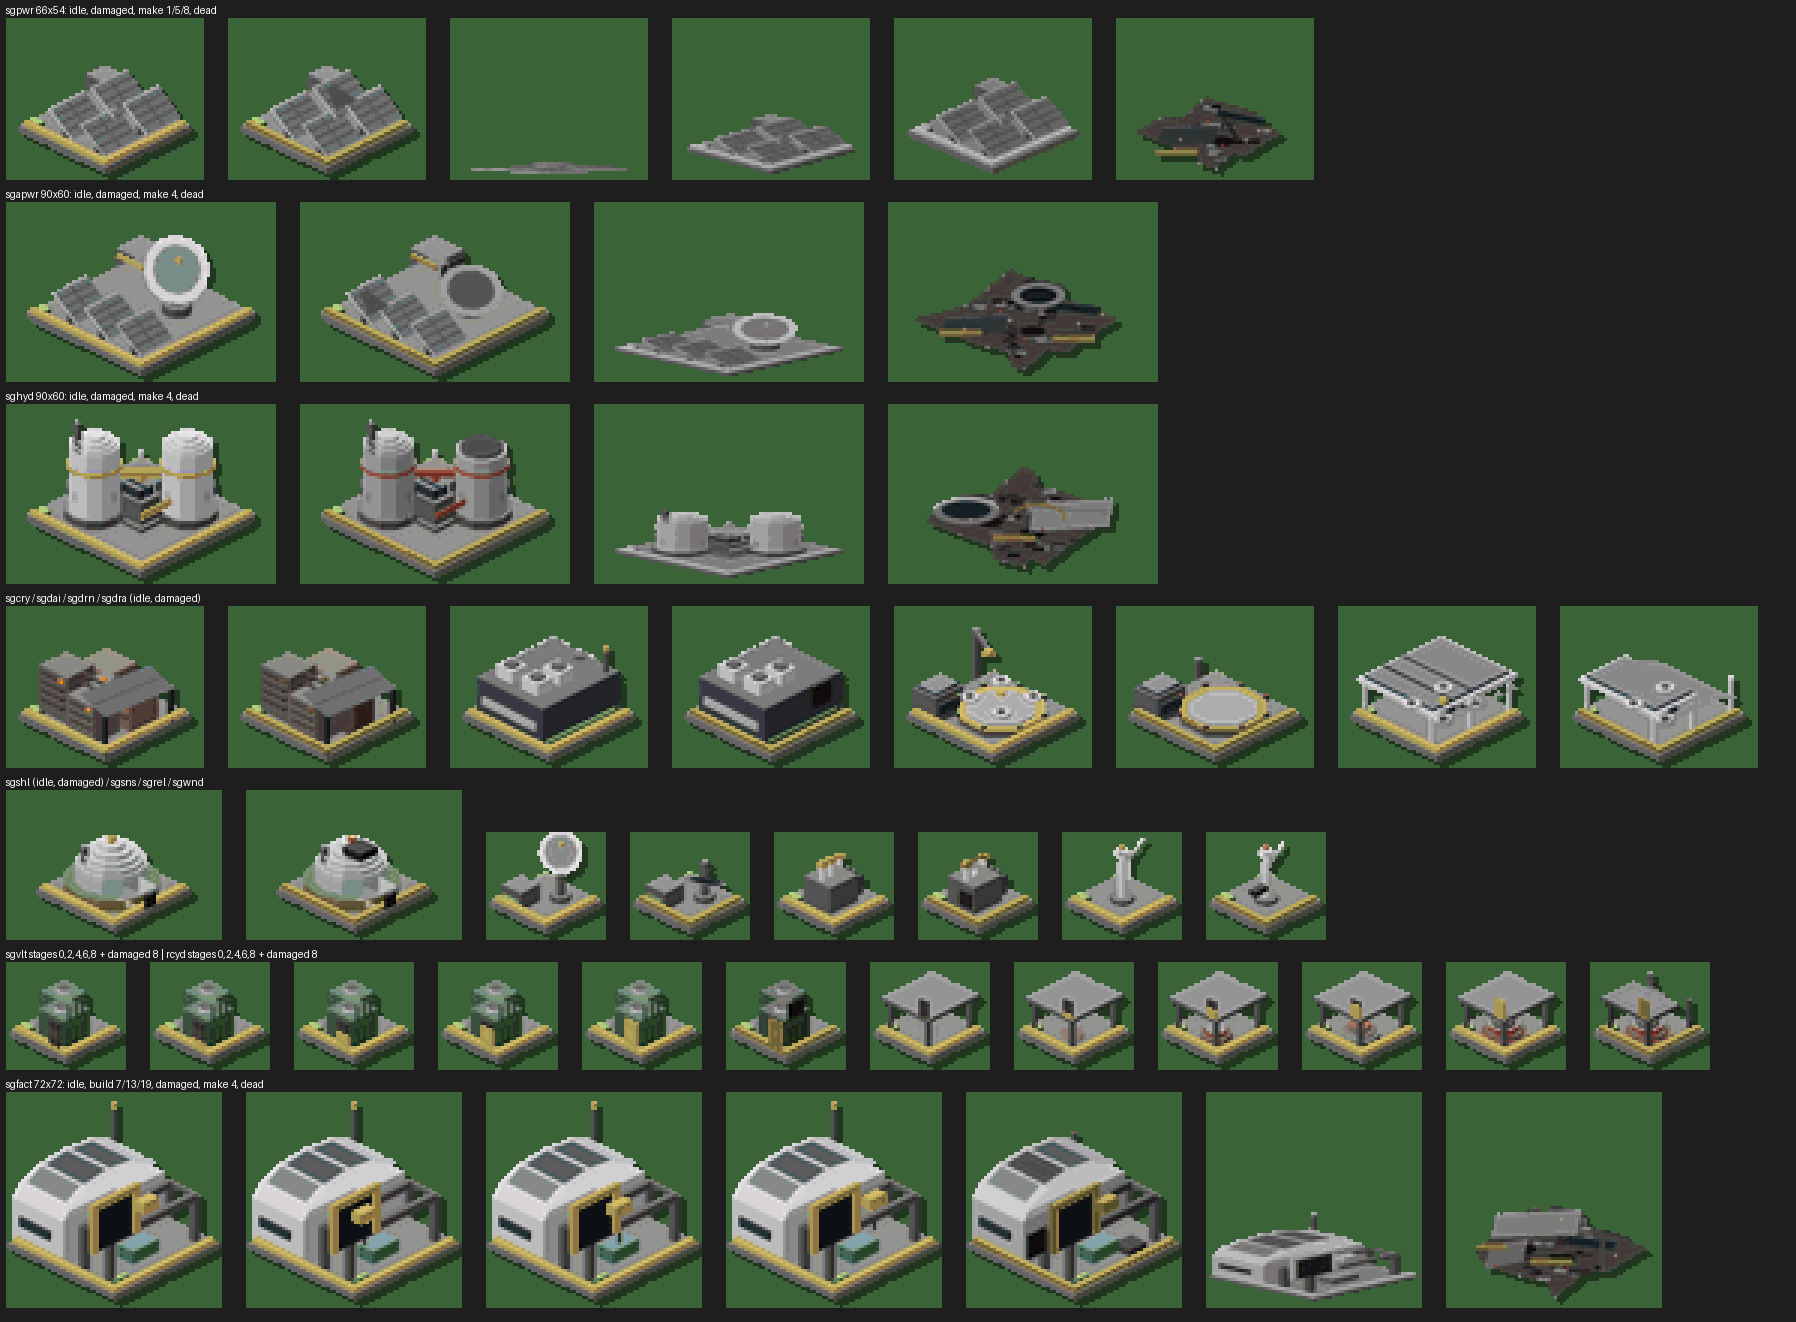
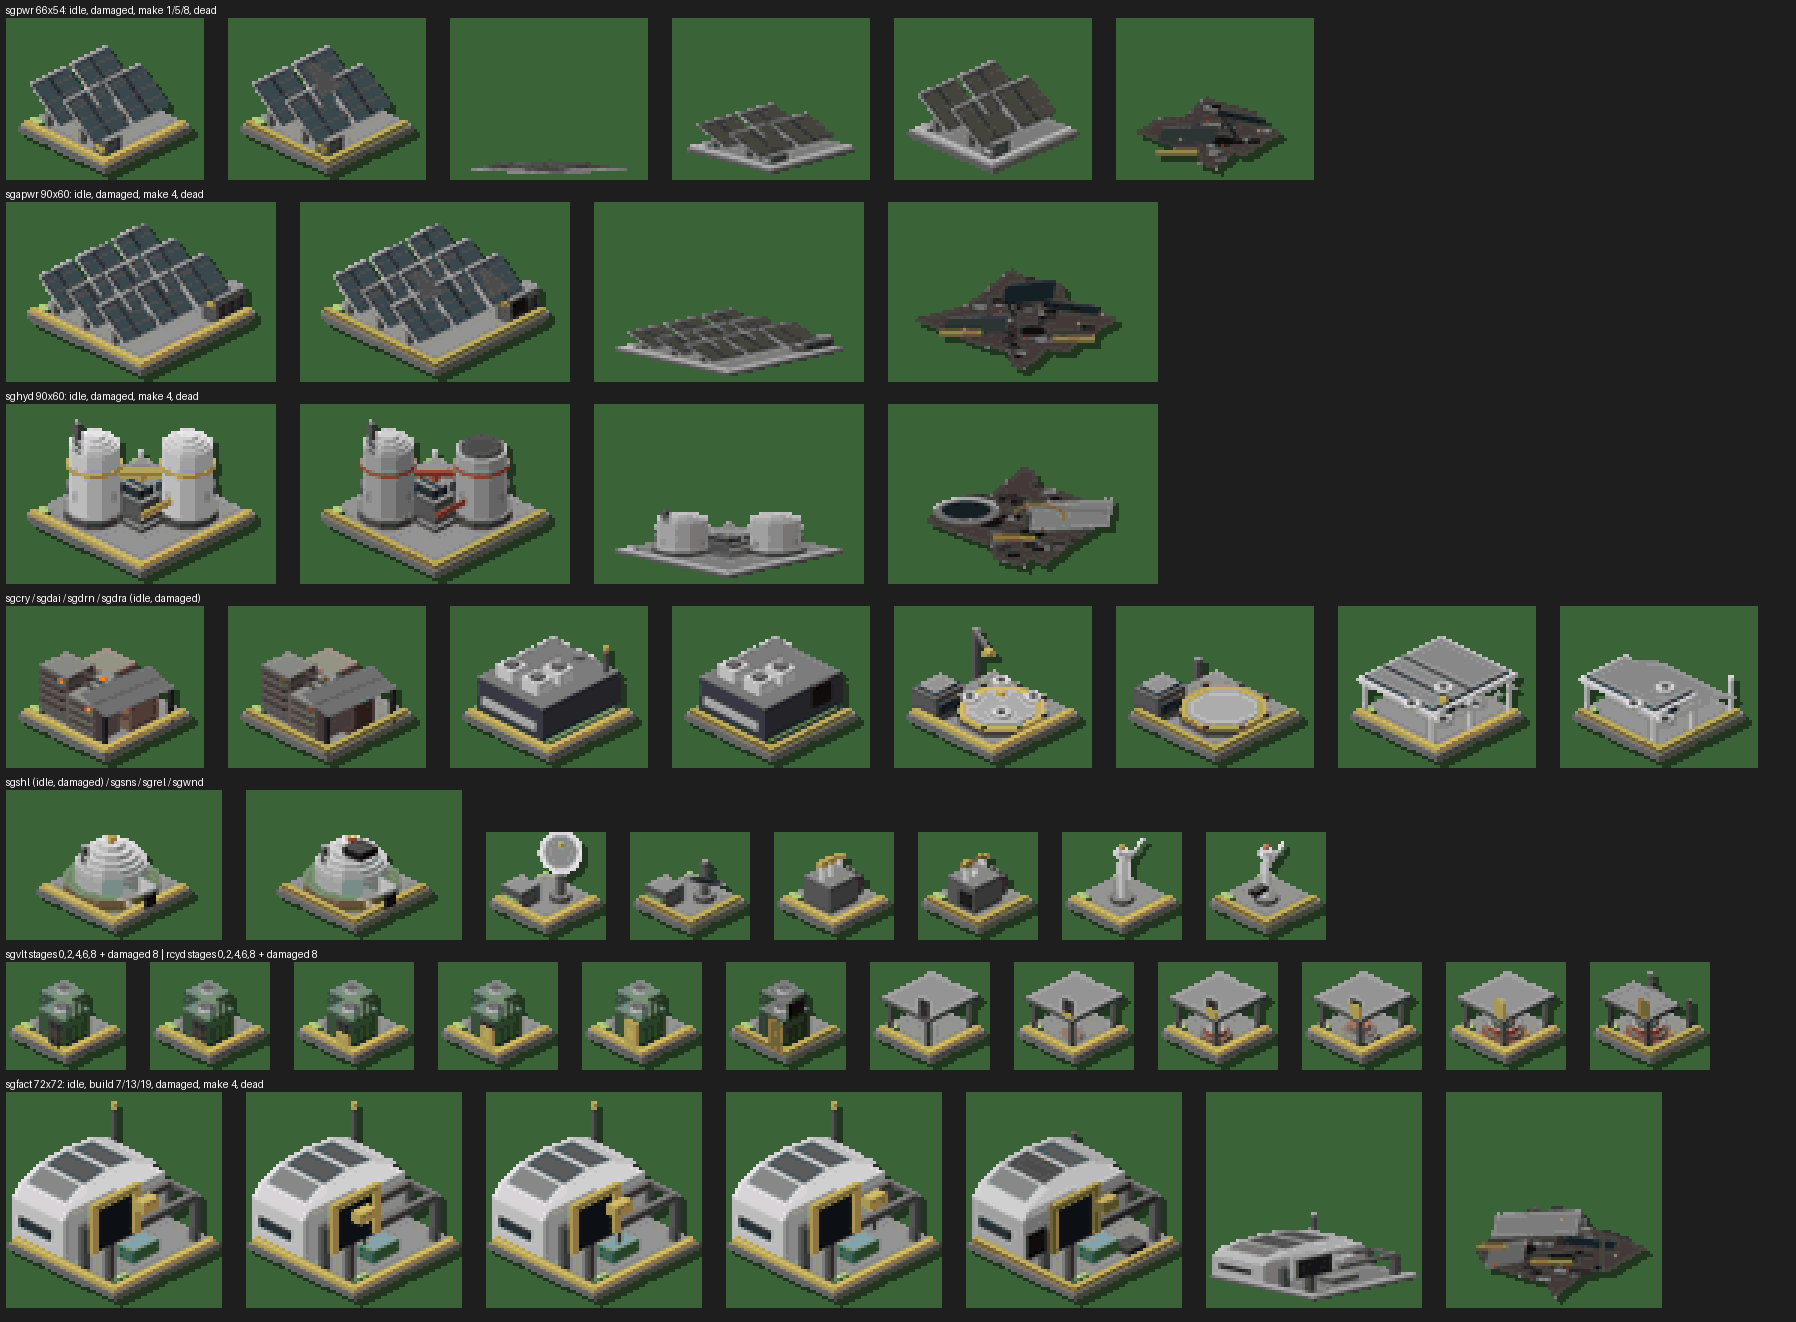
Solar arrays: drop the Advanced Array's dish for nine collectors, larger panels on both (issue #106 follow-up)
Owner review of the merged volumetric pass: the Advanced Solar Array's
concentrator dish read as a radar and took a third of the plot, and both
arrays' panels were still small. sgapwr_mesh is now a full field of nine
collectors in three rows with the storage/switchgear cabinet at the near
corner; sgpwr_mesh is four 17.5x14 collectors with the inverter at the
near-left corner, in front of the panels where it stays visible. Both
arrays share one panel tilt: Mesh snaps illumination to six steps, and
the Solar Array's slightly flatter tilt had landed one step brighter,
pale grey beside the Advanced Array's blue-black. The Advanced Array's
rubble loses its face-down dish for a third collapsed collector.

Regenerated sheets: sgpwr, sgpwrmake, sgapwr, sgapwrmake, sgapwrdead;
everything else byte-identical. --check-yaml exit 0; the sprite check
names none of the sheets. Not verified in a live client.

Claude-Session: https://claude.ai/code/session_019ifE6dBnM5PrtzrEzYCRoq

diff --git a/mods/sungrid/bits/gen_concept_art.py b/mods/sungrid/bits/gen_concept_art.py
@@ -1120,40 +1120,36 @@ def gauge(m, x, y0, z0, n_lit, total=8, pitch=1.0, width=4.0, live=True, side="-
 # --------------------------------------------------------------------- roster
 
 def sgpwr_mesh(damaged=False):
-    """Solar Array: four large collectors in two rows, inverter cabinet at the
-    back corner."""
+    """Solar Array: four large collectors in two rows, filling the plot, with
+    the inverter cabinet at the near-left corner in front of them (a cabinet
+    behind the back row would vanish behind the panels' raised rear edge)."""
     m = Mesh()
     plinth(m, 20, live=not damaged)
-    for row, y in enumerate((-18, -3)):
-        for col, x in enumerate((-19, 1)):
-            pv_panel(m, x, y, 17, 11, 2.2, rise=6.5, damaged=damaged and row == 1 and col == 1)
-    m.box(10, 11, 2.2, 19, 19, 9, STEEL, top=lit(STEEL, 0.2))
-    m.box(10.5, 10.6, 5, 18.5, 11, 6.2, SUN_GOLD if not damaged else dim(SUN_GOLD, 0.4), top=SUN_GOLD, order=1, shadow=False, accent=True)
+    for row, y in enumerate((-10, 6)):
+        for col, x in enumerate((-16, 3)):
+            pv_panel(m, x, y, 17.5, 14, 2.2, rise=9.5, damaged=damaged and row == 1 and col == 1)
+    m.box(-16, -16.5, 2.2, -9, -11, 8, STEEL, top=lit(STEEL, 0.2))
+    m.box(-16.5, -15.5, 4.5, -15.9, -12, 5.7, SUN_GOLD if not damaged else dim(SUN_GOLD, 0.4), top=SUN_GOLD, order=1, shadow=False, accent=True)
     return m
 
 
 def sgapwr_mesh(damaged=False):
-    """Advanced Solar Array: a concentrator dish on a pedestal beside a bank of
-    collectors, with a storage cell at the back."""
+    """Advanced Solar Array: a full field of nine large collectors in three
+    rows, with the storage/switchgear cabinet at the near-right corner in
+    front of them. (It shipped first with a concentrator dish taking a third
+    of the plot; the owner's read was that the dish looked like a radar and
+    the building should carry many more panels instead.)"""
     m = Mesh()
     plinth(m, 27, live=not damaged)
-    for k, y in enumerate((-24, -9, 6)):
-        pv_panel(m, -25, y, 16, 11, 2.2, rise=6.5, damaged=damaged and k == 2)
-    # Concentrator dish: pedestal, yoke, tilted bowl.
-    m.prism(9, -8, 2.2, 5.0, 5.0, dim(CONCRETE, 0.1), sides=10, top=lit(CONCRETE, 0.1))
-    m.prism(9, -8, 5.0, 13.0, 1.8, STEEL, sides=8, top=lit(STEEL, 0.2))
-    m.strut((9, -8, 13), (7.5, -9.5, 15.5), 0.9, STEEL)
-    if not damaged:
-        tilted_disc(m, 7.0, -10.0, 17.5, 11.0, (-0.45, -0.55, 0.7), lit(PALE_STEEL, 0.2), inner=lit(PANEL_BLUEBLACK, 0.25))
-        m.strut((7.0, -10.0, 17.5), (3.5, -14.3, 23.0), 0.5, STEEL)
-        m.box(2.8, -15.0, 22.8, 4.2, -13.6, 24.0, SUN_GOLD, top=lit(SUN_GOLD, 0.3), order=4, shadow=False, accent=True)
-    else:
-        tilted_disc(m, 5.0, -12.0, 12.0, 11.0, (-0.2, -0.3, 0.93), dim(PALE_STEEL, 0.35), inner=dim(PANEL_BLUEBLACK, 0.3))
-    # Storage cell at the back corner, with the live band.
-    m.box(12, 10, 2.2, 24, 24, 11, STEEL, top=lit(STEEL, 0.2))
+    for row, y in enumerate((-15, -1, 13)):
+        for col, x in enumerate((-23.5, -6.1, 11.3)):
+            pv_panel(m, x, y, 16, 12.5, 2.2, rise=8.5, damaged=damaged and (row, col) in ((1, 1), (0, 2)))
+    m.box(12, -23.5, 2.2, 26, -17, 10, STEEL, top=lit(STEEL, 0.2))
     for i in range(3):
-        m.box(13 + i * 3.6, 9.6, 4, 15.5 + i * 3.6, 10.1, 9.5, dim(STEEL, 0.4), top=dim(STEEL, 0.4), order=1, shadow=False)
-    m.box(11.6, 11, 8.5, 12.1, 23, 9.5, SUN_GOLD if not damaged else dim(SUN_GOLD, 0.4), top=SUN_GOLD, order=1, shadow=False, accent=True)
+        m.box(13 + i * 4.2, -24, 4, 16 + i * 4.2, -23.5, 8.5, dim(STEEL, 0.4), top=dim(STEEL, 0.4), order=1, shadow=False)
+    m.box(11.5, -22.5, 7.5, 12.1, -18, 8.7, SUN_GOLD if not damaged else dim(SUN_GOLD, 0.4), top=SUN_GOLD, order=1, shadow=False, accent=True)
+    if damaged:
+        m.box(12.5, -24.1, 5, 19, -23.6, 9.5, DAMAGE_SCORCH, top=DAMAGE_SCORCH, order=2, shadow=False)
     return m
 
 
@@ -1639,13 +1635,13 @@ def sgpwr_dead_draw(sd, w=FAM23_W, h=FAM23_H):
 
 
 def sgapwr_dead_draw(sd, w=FAM33_W, h=FAM33_H):
-    """Advanced Solar Array rubble: a wider spill, the dish face-down in it."""
+    """Advanced Solar Array rubble: a wider spill of collapsed collectors."""
     ox, oy, half = _dead_origin("3x3")
     _rubble_diamond(sd, ox, oy, half, seed=12)
     _slab(sd, ox - 16, oy + 2, 22, 5, mix(PANEL_BLUEBLACK, LEGACY_GRAY, 0.35), lean=1.0)
     _slab(sd, ox + 16, oy - 4, 20, 5, dim(PANEL_BLUEBLACK, 0.2), lean=-2.4)
-    sd.ellipse([ox - 4, oy - 12, ox + 14, oy - 4], fill=dim(PALE_STEEL, 0.35))
-    sd.ellipse([ox - 1, oy - 10.5, ox + 11, oy - 5.5], fill=dim(PANEL_BLUEBLACK, 0.3))
+    _slab(sd, ox + 2, oy - 9, 18, 5, dim(PANEL_BLUEBLACK, 0.1), lean=1.8)
+    sd.line([(ox - 6, oy - 7), (ox - 3, oy - 1)], fill=POLE_DARK, width=1.1)
     _conduit_stub(sd, ox - 28, ox - 14, oy + 4)
     _conduit_stub(sd, ox + 10, ox + 24, oy + 6)
     _embers(sd, [(ox - 20, oy + 3), (ox, oy + 6), (ox + 18, oy + 1), (ox - 8, oy - 3), (ox + 26, oy - 2)])

diff --git a/docs/ART_DIRECTION.md b/docs/ART_DIRECTION.md
@@ -139,7 +139,7 @@ Still open after this pass, and it is the *animated* half: no Sungrid **building
 
 Two things generalise. First, **a thin gold band on a diagonal never survives the downscale on its own**: measured on the drafts, about half the band's pixels quantised to a *fixed* yellow instead of the remap ramp — the same fault `_vlt_accents`/`_sgrel_accents` used to patch with hand-placed pixel tables, which do not scale to fourteen meshes. Mesh faces can now be flagged `accent=True`, and `mesh_frame()` re-stamps them natively from two extra passes: an occlusion-correct coverage mask (accent faces white, everything else black, in painter's order) that says which native pixels the band owns, and an accent-only colour pass on a solid gold background that says what shade each one is, with the result snapped onto the gold reference ramp so `_index_for` is guaranteed to route it to indices 80–95. Every gauge, ring, door frame and beacon is team-coloured by the same mechanism, and the fixed-yellow count across the roster is now zero. Second, **a prism's top cap is a full disc**: giving a hoop or band prism an `order` override to win the depth test paints that disc over whatever stands above it — which is how the Hydrogen Plant's tank crowns came back gold in the first draft. Bands that wrap a taller solid sort correctly by depth on their own; leave `order` at 0.
 
-The material is the pale steel of the concept renders in `concept-art/cameo-sources/` rather than the blue-black most of the flat roster had drifted to, which is also what keeps the buildings reading next to the pale stock Construction Yard's neighbours. Solar panels are larger than before at the owner's request (four collectors on the Solar Array instead of two rows of small cells). Not verified in a live client, as with every pass since issue #35: verified with `--check-yaml` across all 75 maps, `--check-missing-sprites` (none of the new sheets named; the overflow negative control fails on `sgfact.png`), and the composited review sheet below.
+The material is the pale steel of the concept renders in `concept-art/cameo-sources/` rather than the blue-black most of the flat roster had drifted to, which is also what keeps the buildings reading next to the pale stock Construction Yard's neighbours. Solar panels are larger than before at the owner's request: four large collectors on the Solar Array instead of two rows of small cells, and — after the owner's review of the merged pass — the Advanced Solar Array lost its concentrator dish ("that huge radar") for a full field of nine collectors with the switchgear cabinet at its near corner. Both arrays' panels share one tilt: `Mesh` snaps illumination to six steps, and a slightly flatter panel on the Solar Array crossed a step and came out a pale grey next to the Advanced Array's blue-black — the same geometry-quantisation sensitivity worth remembering for any pair of buildings meant to share a material. Not verified in a live client, as with every pass since issue #35: verified with `--check-yaml` across all 75 maps, `--check-missing-sprites` (none of the new sheets named; the overflow negative control fails on `sgfact.png`), and the composited review sheet below.
 
 ![Every volumetric building from the shipped sheets, 3×: idle and damaged frames, build-up samples, the Battery Bank and Recycling Depot fill stages, the Construction Yard's placed-building frames, and the four diamond rubble sprites.](concept-art/issue106-volumetric-roster.png)
 

diff --git a/docs/BACKLOG.md b/docs/BACKLOG.md
@@ -3288,8 +3288,20 @@ projection, so they match the new roster geometrically; giving them Sungrid-orig
 larger pass (several carry door/radar/harvester-dock animations). Also untouched: the turrets (already
 meshes) and terrain scenery.
 
+**Follow-up after the owner reviewed the merged pass:** "adv solar plant should carry much more panels, get rid
+of that huge radar. make panels bigger for both arrays." `sgapwr_mesh` is now nine collectors in three rows
+with the storage/switchgear cabinet at the near-right corner (the dish read as a radar and took a third of
+the plot); `sgpwr_mesh` is four 17.5x14 collectors with the inverter at the near-left corner, in front of
+the panels rather than behind them where the panels' raised rear edge hid it. One thing that cost a render:
+`Mesh` snaps illumination to `MESH_SHADE_STEPS` = 6, so the Solar Array's slightly flatter panel tilt landed
+one step brighter than the Advanced Array's and came out pale grey beside it; both arrays now use the same
+rise-to-depth ratio. `sgapwr_dead_draw` lost its face-down dish for a third collapsed collector. Note the
+photographic `sgapwr` cameo still shows the concentrator dish it was cropped around - the build-menu cameo
+question is open with the owner (see the session), and this is now the one cameo that depicts something
+the building no longer has.
+
 **Phase:** 6 follow-up (building art), touches 7's "the base" ask via the Construction Yard only.
 
 **Definition of done:** Met for the roster. Open: the owner's read of the shipped sheets in a live client,
-and the stock-building pass above if wanted.
+the build-menu cameo question, and the stock-building pass above if wanted.
 

diff --git a/CHANGELOG.md b/CHANGELOG.md
@@ -449,7 +449,8 @@ missing `using` that would otherwise have broken CI and all three platform insta
   diamond footprint, visible roof, lit left wall, shaded right wall — instead of front elevations standing on a
   flat pad. This is the "still looks 2D" fix: the Hydrogen Plant and Drone Bay were the reported cases, but the
   whole roster is done so nothing sits at odds with its neighbour. Buildings now fit their cell footprint the way
-  stock ones do; the team-coloured conduit band wraps the plinth. Solar panels are larger.
+  stock ones do; the team-coloured conduit band wraps the plinth. Solar panels are larger, and the Advanced
+  Solar Array is now a full field of nine collectors instead of three panels beside a concentrator dish.
 - **New Construction Yard art.** The base is now a Sungrid-original building — a vaulted space-frame
   fabrication hall with a solar roof, a team-coloured door frame and a gantry crane over an open assembly yard —
   replacing the stock Red Alert yard, with the same crane animation when a building is placed. The fake
